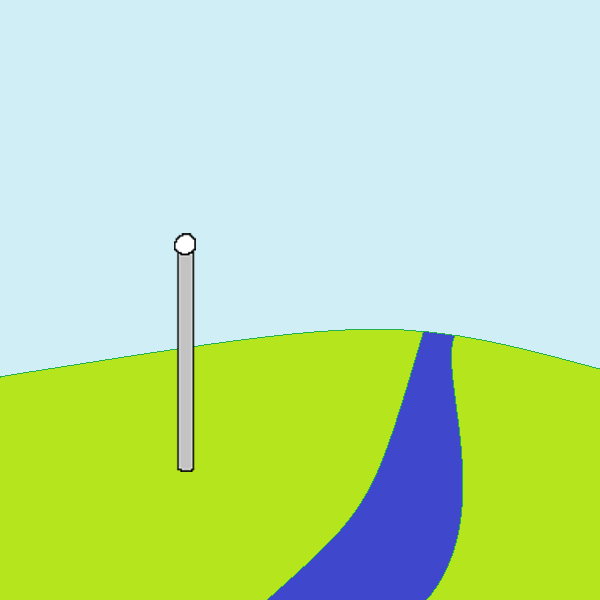
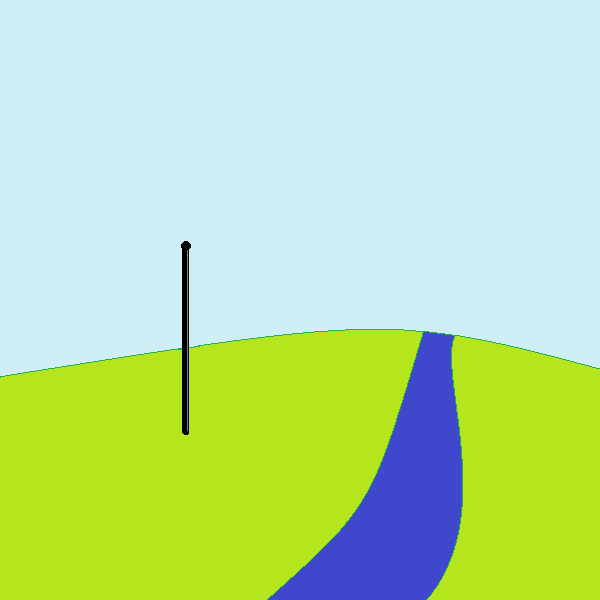
fixed generator image

Changed region(s): [[0.27, 0.39, 0.33, 0.81]]

diff --git a/lab_05/main.py b/lab_05/main.py
@@ -66,7 +66,7 @@ all_sprites.add(cloud2)
 cloud3 = Cloud(250, 170, "cloud.png")
 all_sprites.add(cloud3)
 
-generator = Generator(185, 230, "generator.png")
+generator = Generator(185, 235, "generator.png")
 all_sprites.add(generator)
 
 
